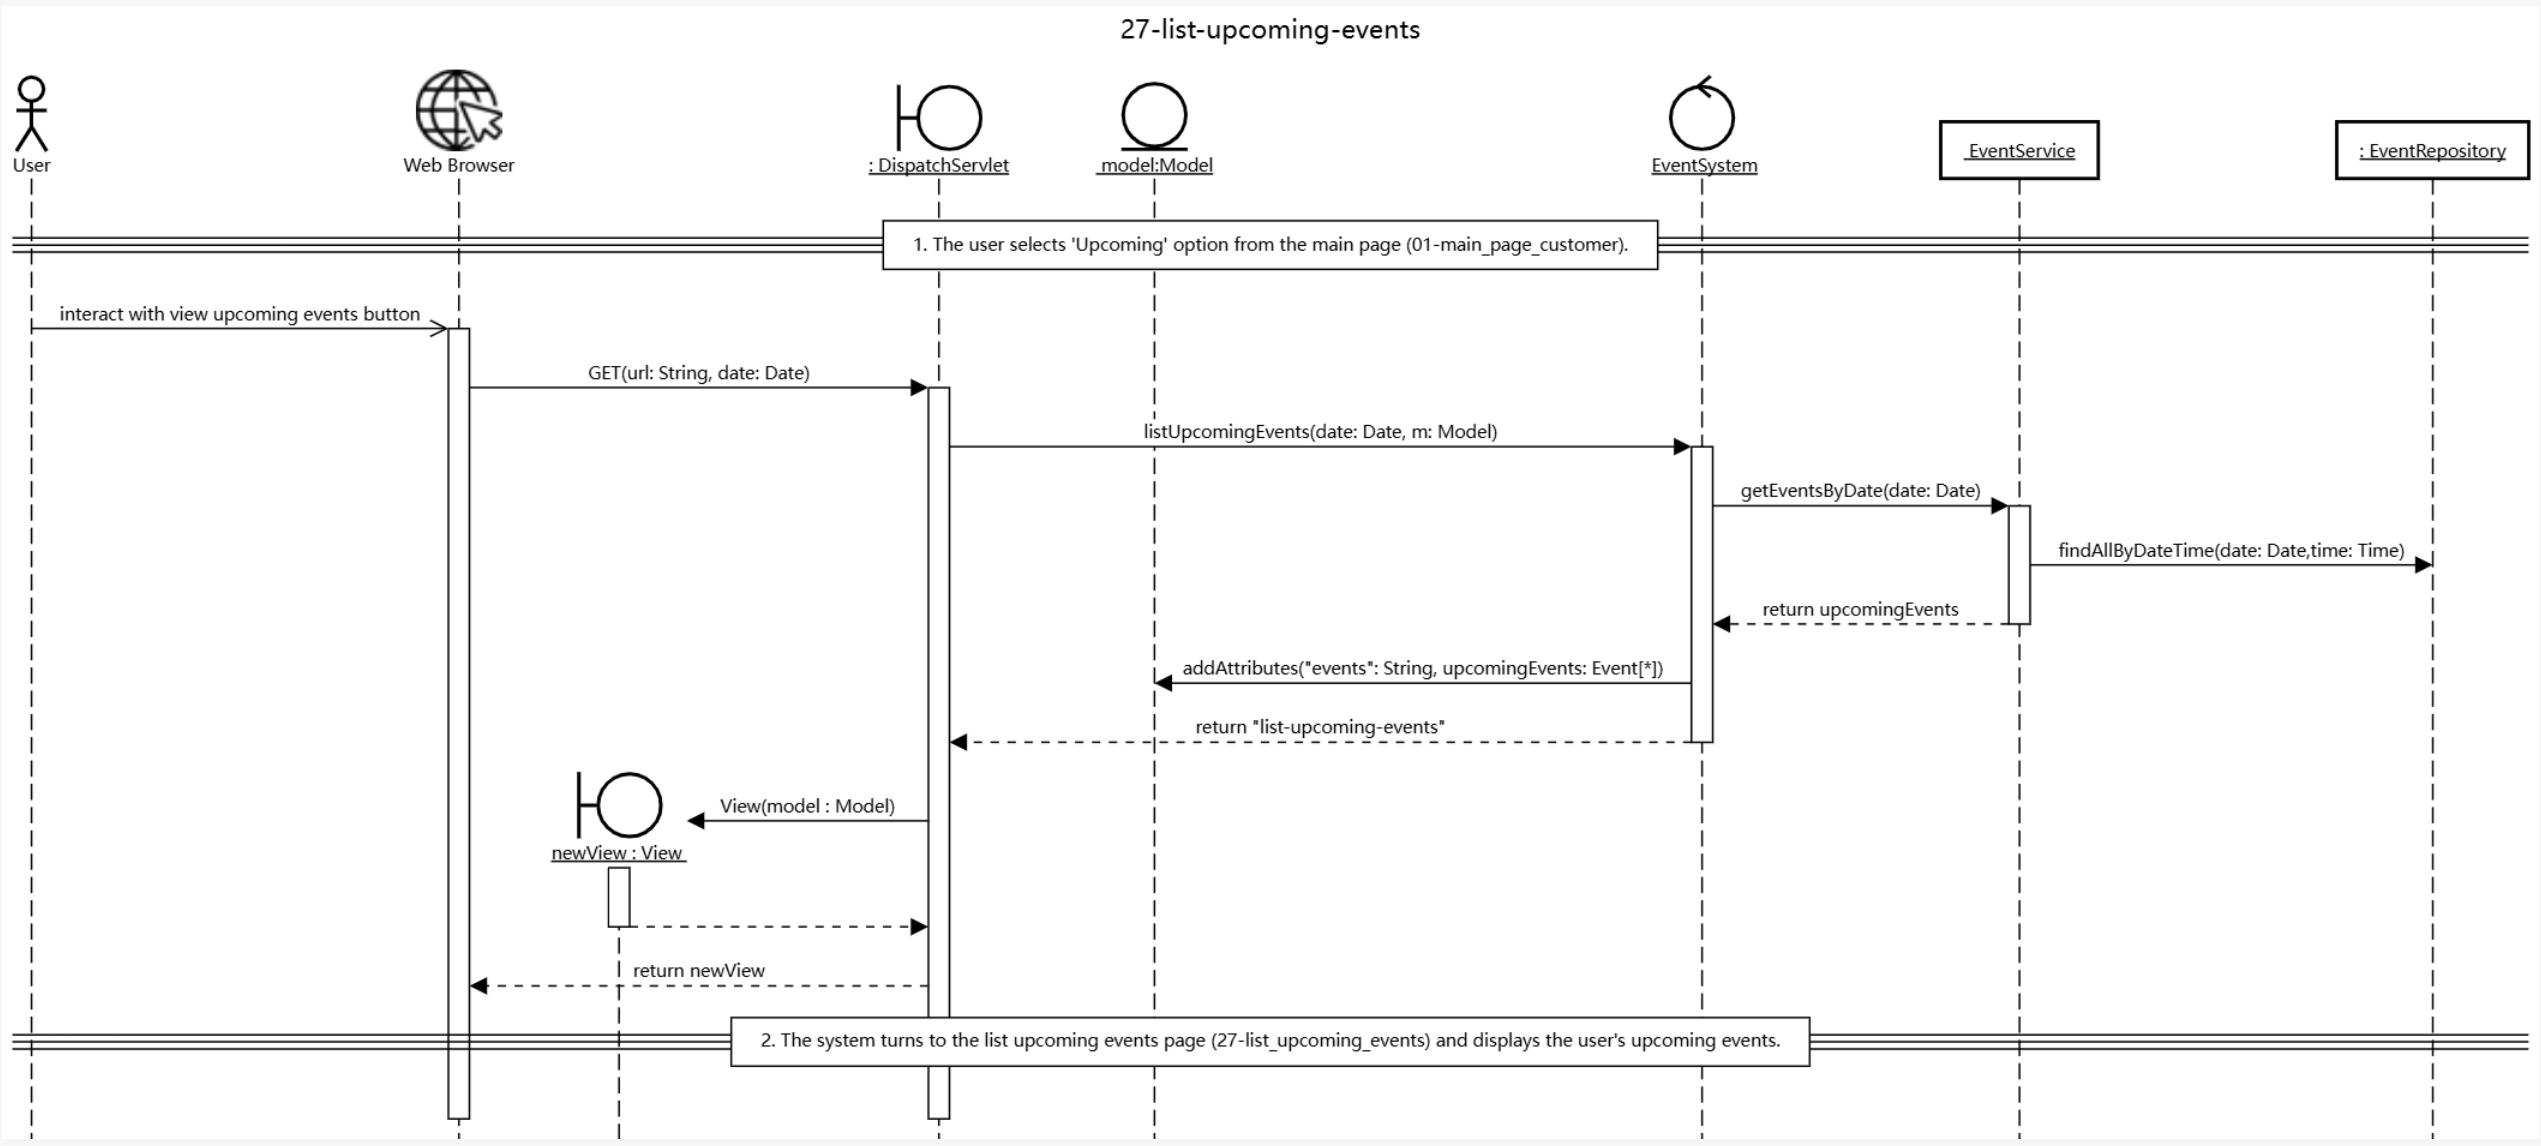
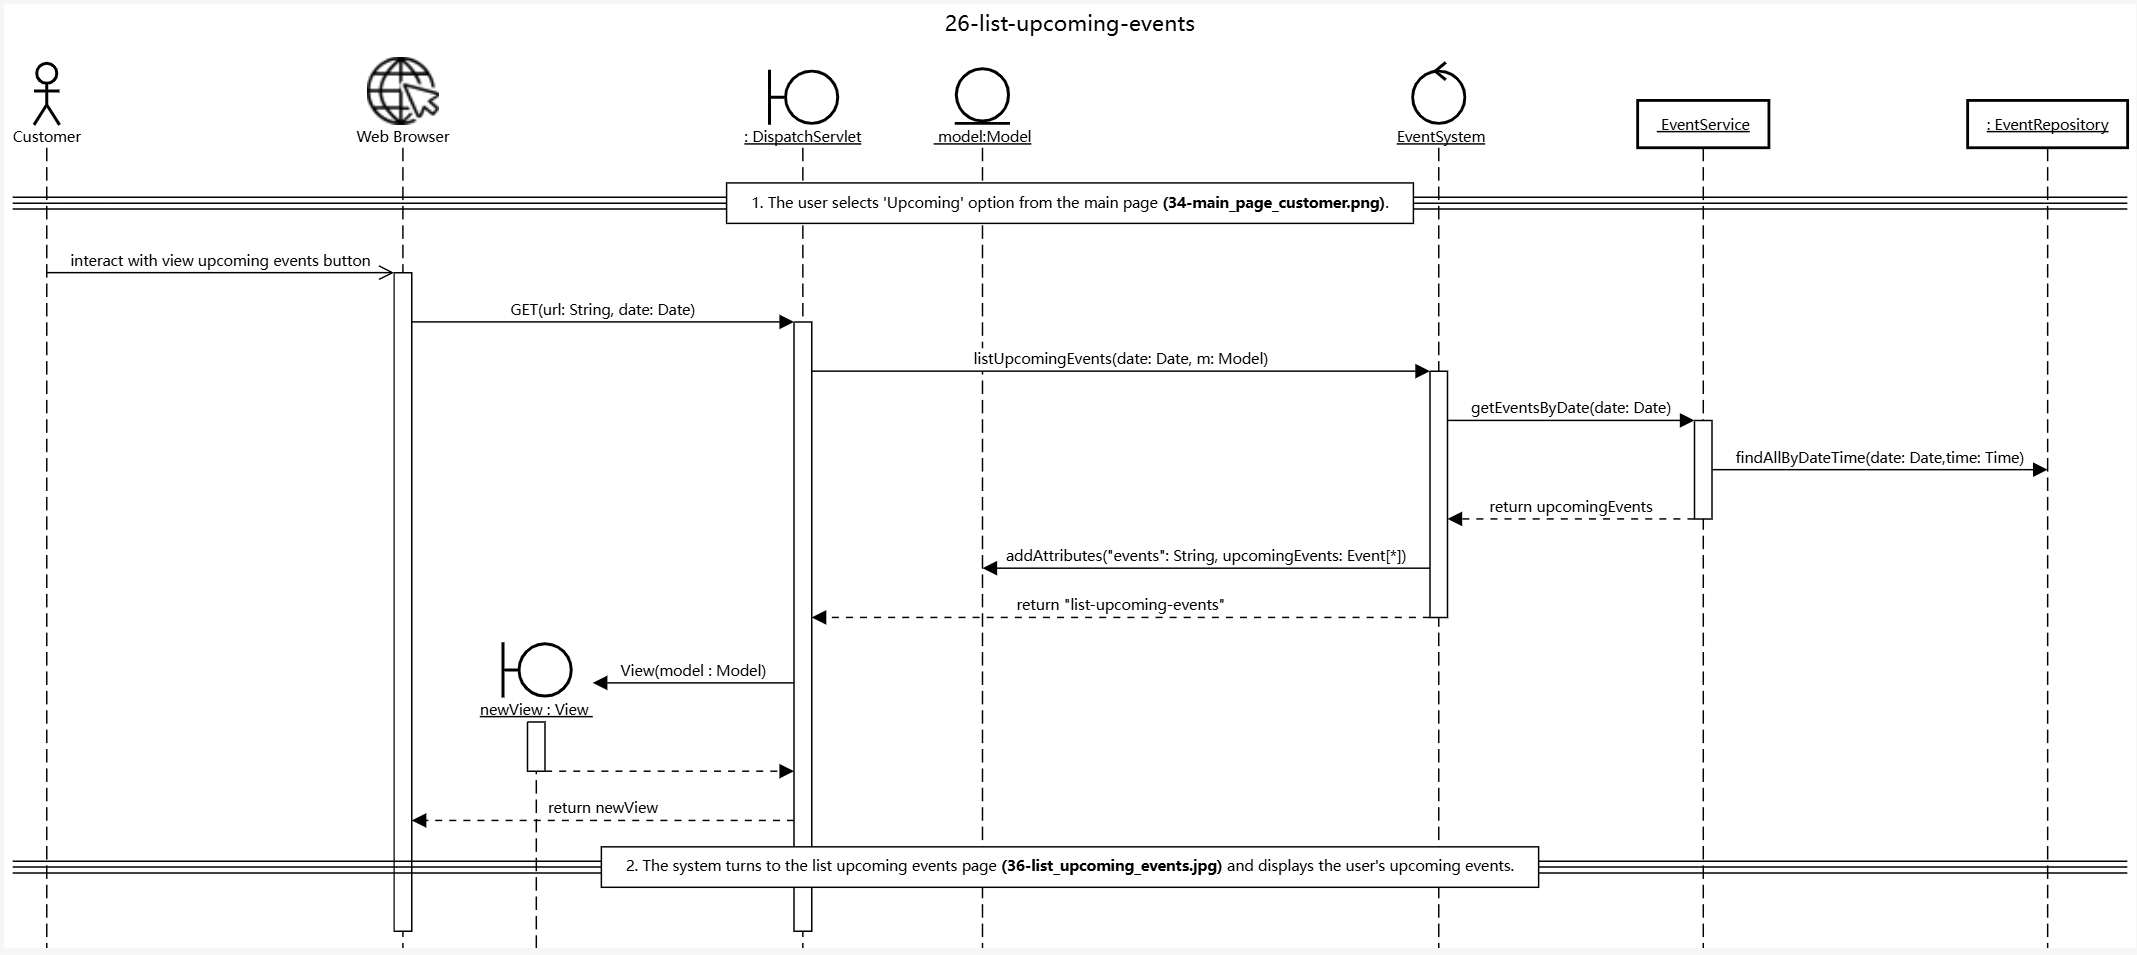
change the order and style

diff --git a/03-design/usecases/docs/25-register_account.md b/03-design/usecases/docs/25-register_account.md
@@ -1,7 +1,7 @@
 # 25 Register Account
 
 ## Basic Course of Events
-- A new customer select 'Create User Account' in the Login page.
+- A new customer select 'Register' in the Login page(00-login.png).
 - The customer fill in necessary information to create a user, including:
     1. name
     2. email
@@ -11,11 +11,15 @@
 
 
 ### Sequence Diagram
-![Register Account](/02-analysis/sequence-diagrams/User/26-register_account.png)
+
+![Register Account](/03-design/sequence-diagrams/Customer/25-register_account-basic.png)
+
+
+
 
 ## Alternate Course of Events
-### Do not Create
-- A new customer select 'Create User Account' in the account management.
+### Cancel
+- A new customer select 'Register' in the account management.
 - The user fill in necessary information to create a user, including:
     1. name
     2. email
@@ -25,11 +29,9 @@
 - No account will be created and the system returns to the previous interface.
 
 
-### Sequence Diagram-- Alternate Course of Events
-![Register Account Cancel](/02-analysis/sequence-diagrams/User/26-register_account_cancel.png)
+### Duplicated information
 
-
-- A new customer select 'Create User Account' in the account management.
+- A new customer select 'Register' in the account management.
 - The user fill in necessary information to create a customer, including:
   1. name
   2. email
@@ -40,25 +42,19 @@
 - The service checks if the name and email are unique.
 - Account information is not unique, return failure.
 
-### Sequence Diagram-- Alternate Course of Events
-![Register Account Duplicated](/02-analysis/sequence-diagrams/User/26-register_account_duplicated.png)
-
 ## UI Sketches
 
 ### Login
 This is the page that the user must be on at the start to complete the use case.
-
 
 ![Login](/02-analysis/UI/00-login.png) 
 
 ### Register Page
 This page is taken to when the user has successfully registered.
 
-
 ![Main Page](/02-analysis/UI/customer/34-main_page_customer.png)
 
 ### Main Page
 This page is taken to when the user has successfully registered.
-
 
 ![Main Page](/02-analysis/UI/customer/34-main_page_customer.png)

diff --git a/03-design/usecases/docs/28-purchase_ticket.md b/03-design/usecases/docs/28-purchase_ticket.md
@@ -10,7 +10,8 @@
 - The system displays the tickets purchased by the user.
 
 ### Sequence Diagram
-![User Purchase Ticket](/02-analysis/sequence-diagrams/User/29-purchase_ticket.png)
+
+![User Purchase Ticket](/03-design/sequence-diagrams/Customer/28-purchase_ticket-basic.png)
 
 ## Alternate Course of Events
 
@@ -23,19 +24,7 @@
 - The service checks ticket availability and finds no tickets are available (due to synchronization issues).
 - The system prompts the user that the tickets are sold out.
 
-### Sequence Diagram -- Alternate Course of Events
-![Insufficient Tickets](/02-analysis/sequence-diagrams/User/29-purchase_ticket_insufficient.png)
 
-### Select No
-- The user selects an event from the list of events.
-- The system displays the event interface with a 'Purchase' option.
-- The user selects 'Purchase'.
-- The system asks the user to confirm.
-- The user selects **No** to cancel the purchase.
-- The system returns to the previous interface without purchasing a ticket.
-
-### Sequence Diagram -- Alternate Course of Events
-![Select No](/02-analysis/sequence-diagrams/User/29-purchase_ticket_no.png)
 
 ## UI Sketches
 

diff --git a/03-design/usecases/docs/26-list_upcoming_events.md b/03-design/usecases/docs/26-list_upcoming_events.md
@@ -1,23 +1,14 @@
 # 26 List Upcoming Events
 
 ## Basic Course of Events
+
 - The customer selects 'Upcoming' option from the main page (34-main_page_customer.png).
 - The system turns to the list upcoming events page (36-list_upcoming_events.jpg) and displays the user's upcoming events.
 
 
 ### Sequence Diagram
-![List Upcoming Events](/02-analysis/sequence-diagrams/User/27-list_upcoming_events.png)
 
-## Alternate Course of Events
-
-### No Upcoming Events
-- The user selects 'Upcoming' option from the user management menu.
-- The system forwards the request to the EventService to retrieve upcoming events.
-- The service checks for upcoming events in the database and finds none.
-- The system prompts the user that there are no upcoming events.
-
-### Sequence Diagram -- Alternate Course of Events
-![No Upcoming Events](/02-analysis/sequence-diagrams/User/27-list_upcoming_evnets_no.png)
+![List Upcoming Events](/03-design/sequence-diagrams/Customer/26-list_upcoming_events-basic.png)
 
 ## UI Sketches
 

diff --git a/03-design/usecases/docs/27-view_purchased_tickets.md b/03-design/usecases/docs/27-view_purchased_tickets.md
@@ -6,18 +6,8 @@
 
 
 ### Sequence Diagram
-![View Purchased Tickets](/02-analysis/sequence-diagrams/User/28-tickets_list.png)
 
-## Alternate Course of Events
-
-### No Purchased Tickets
-- The user clicks 'Tickets' on their main page (34-view_all_events.png).
-- The system turns to the ticket list page (40-view_purchased_tickets.png) and requests the purchased tickets associated with the user's email.
-- The service checks for any purchased tickets associated with the user and finds none.
-- The system displays a message to the user indicating that there are no purchased tickets.
-
-### Sequence Diagram -- Alternate Course of Events
-![No Purchased Tickets](/02-analysis/sequence-diagrams/User/28-tickets_list_empty.png)
+![View Purchased Tickets](/03-design/sequence-diagrams/Customer/27-view_purchased_tickets-basic.png)
 
 ## UI Sketches
 

diff --git a/03-design/README.md b/03-design/README.md
@@ -54,7 +54,7 @@ file and is linked below.
 25. [View Venue Bookings](/03-design/usecases/docs/24-view_venue_bookings.md)
 26. [Register Account](/03-design/usecases/docs/25-register_account.md)
 27. [List Upcoming Events](/03-design/usecases/docs/26-list_upcoming_events.md)
-28. [Tickets List](/03-design/usecases/docs/27-tickets_list.md)
+28. [Tickets List](/03-design/usecases/docs/27-view_purchased_tickets.md)
 29. [Purchase Ticket](/03-design/usecases/docs/28-purchase_ticket.md)
 30. [View Ticket Details](/03-design/usecases/docs/29-view_ticket_details.md)
 31. [Cancel Ticket](/03-design/usecases/docs/30-cancel_ticket.md)

diff --git a/03-design/usecases/docs/29-view_ticket_details.md b/03-design/usecases/docs/29-view_ticket_details.md
@@ -5,7 +5,8 @@
 - The system turn to the ticket information page(37-view_ticket_details_user.png) which show the ticket details.
 
 ### Sequence Diagram
-![View Ticket Details](/02-analysis/sequence-diagrams/User/30-view_ticket_details.png)
+
+![View Ticket Details](/03-design/sequence-diagrams/Customer/29-view_ticket_details-basic.png)
 
 ## Alternate Course of Events
 -None

diff --git a/03-design/usecases/docs/30-cancel_ticket.md b/03-design/usecases/docs/30-cancel_ticket.md
@@ -10,6 +10,7 @@
 - The system updates and displays the ticket list page with the canceled ticket removed.
 
 ### Sequence Diagram
+
 ![User Cancel Ticket](/03-design/sequence-diagrams/Customer/30-cancel_ticket-basic.png)
 
 ## Alternate Course of Events
